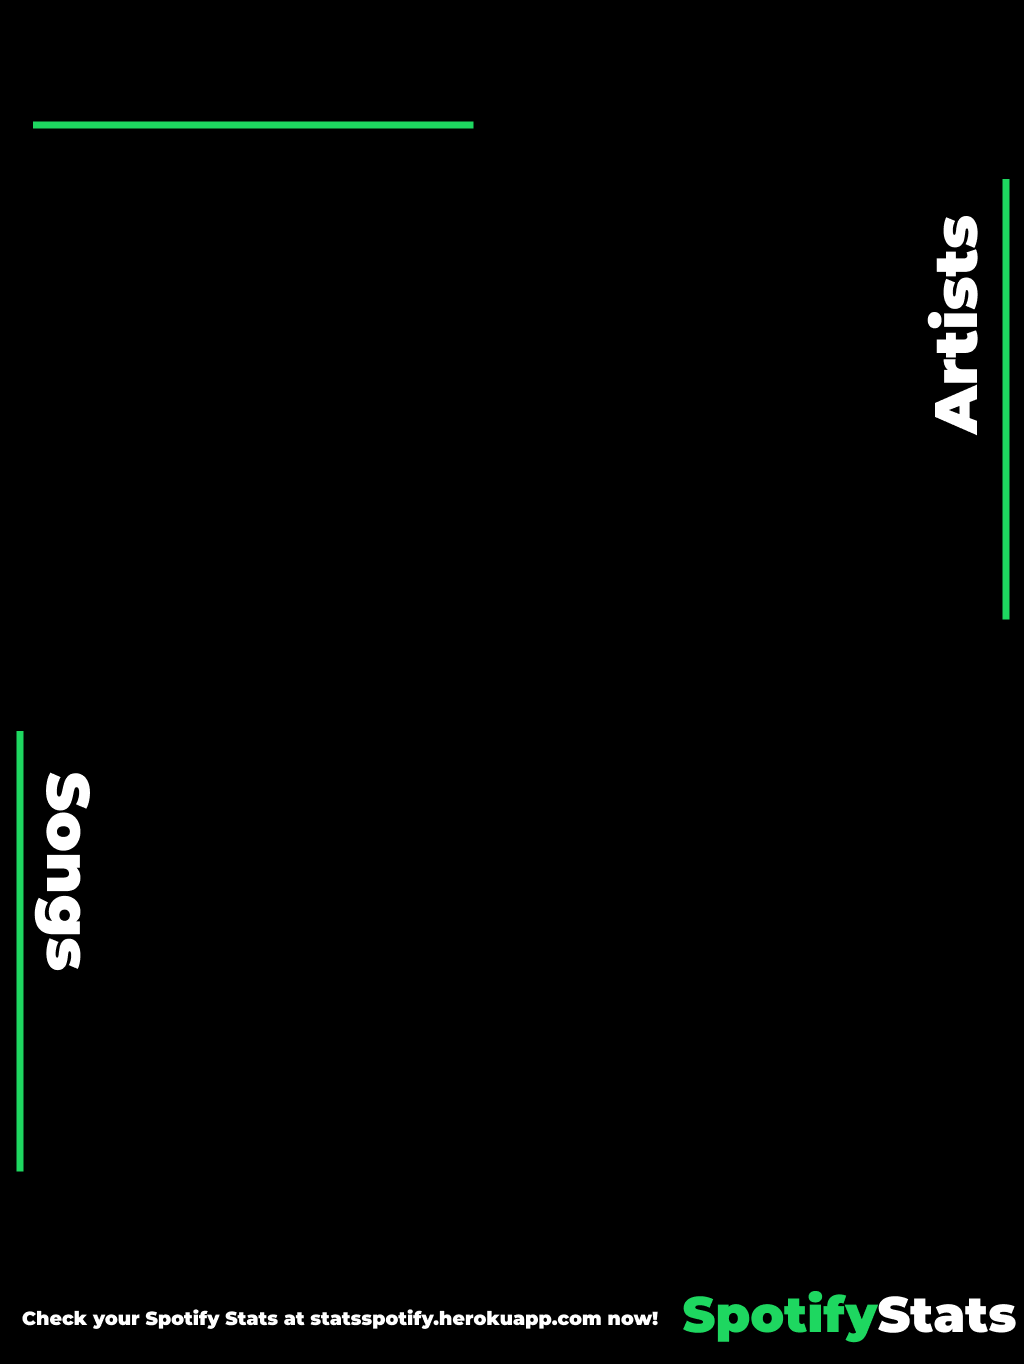
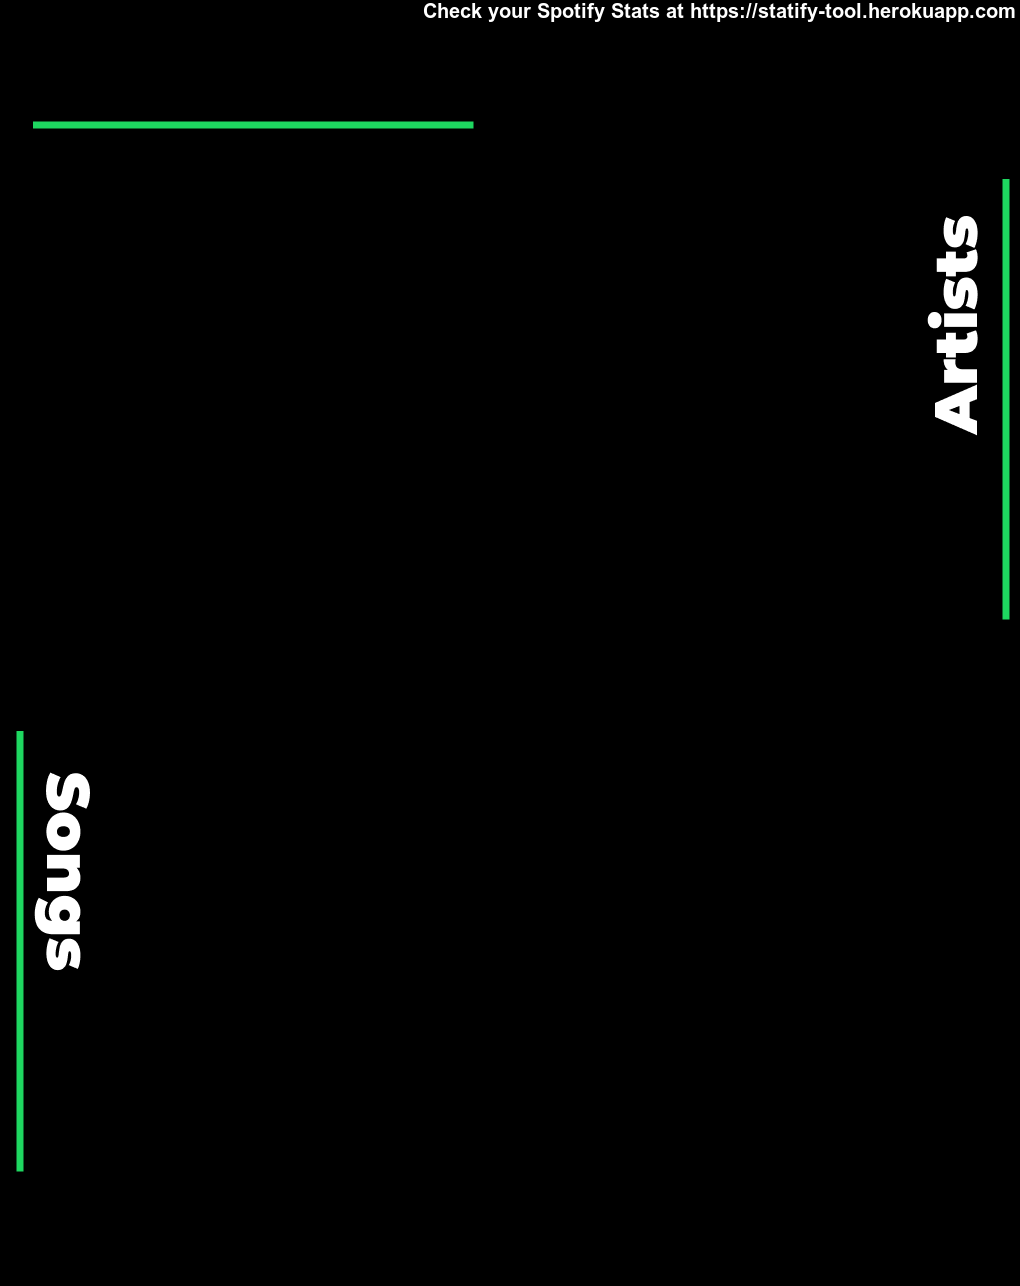
fixed the share stats template and title of the page

diff --git a/templates/info.html b/templates/info.html
@@ -5,7 +5,7 @@
     <meta charset="UTF-8">
     <meta name="viewport" content="width=device-width, initial-scale=1.0">
     <meta http-equiv="X-UA-Compatible" content="ie=edge">
-    <title>Spotify Stats-Info</title>
+    <title>Statify</title>
     <link rel = "icon" href="../static/favicon.png" type = "image/x-icon"> 
     <link rel="stylesheet" href="{{ url_for('static', filename='style2.css') }}">
     <link rel="stylesheet" href="https://stackpath.bootstrapcdn.com/font-awesome/4.7.0/css/font-awesome.min.css" integrity="sha384-wvfXpqpZZVQGK6TAh5PVlGOfQNHSoD2xbE+QkPxCAFlNEevoEH3Sl0sibVcOQVnN" crossorigin="anonymous">

diff --git a/utils.py b/utils.py
@@ -183,7 +183,7 @@ def get_recommendations(sp, artists, songs, genre, audio_features):
     return song_list[:5]
 
 def create_playlist(sp,songs,uid):
-    playlist = sp.user_playlist_create(uid, 'Spotify Stats: Your Top Songs!', description='Your Top Songs of all time!')
+    playlist = sp.user_playlist_create(uid, 'Statify by UT: Your Top Songs!', description='Your Top 100 Songs of all time!')
     playlist_id = playlist['id']
     tracks_add = sp.user_playlist_add_tracks(uid, playlist_id, songs)
     playlist_image = sp.playlist_cover_image(playlist_id)[0]['url']
